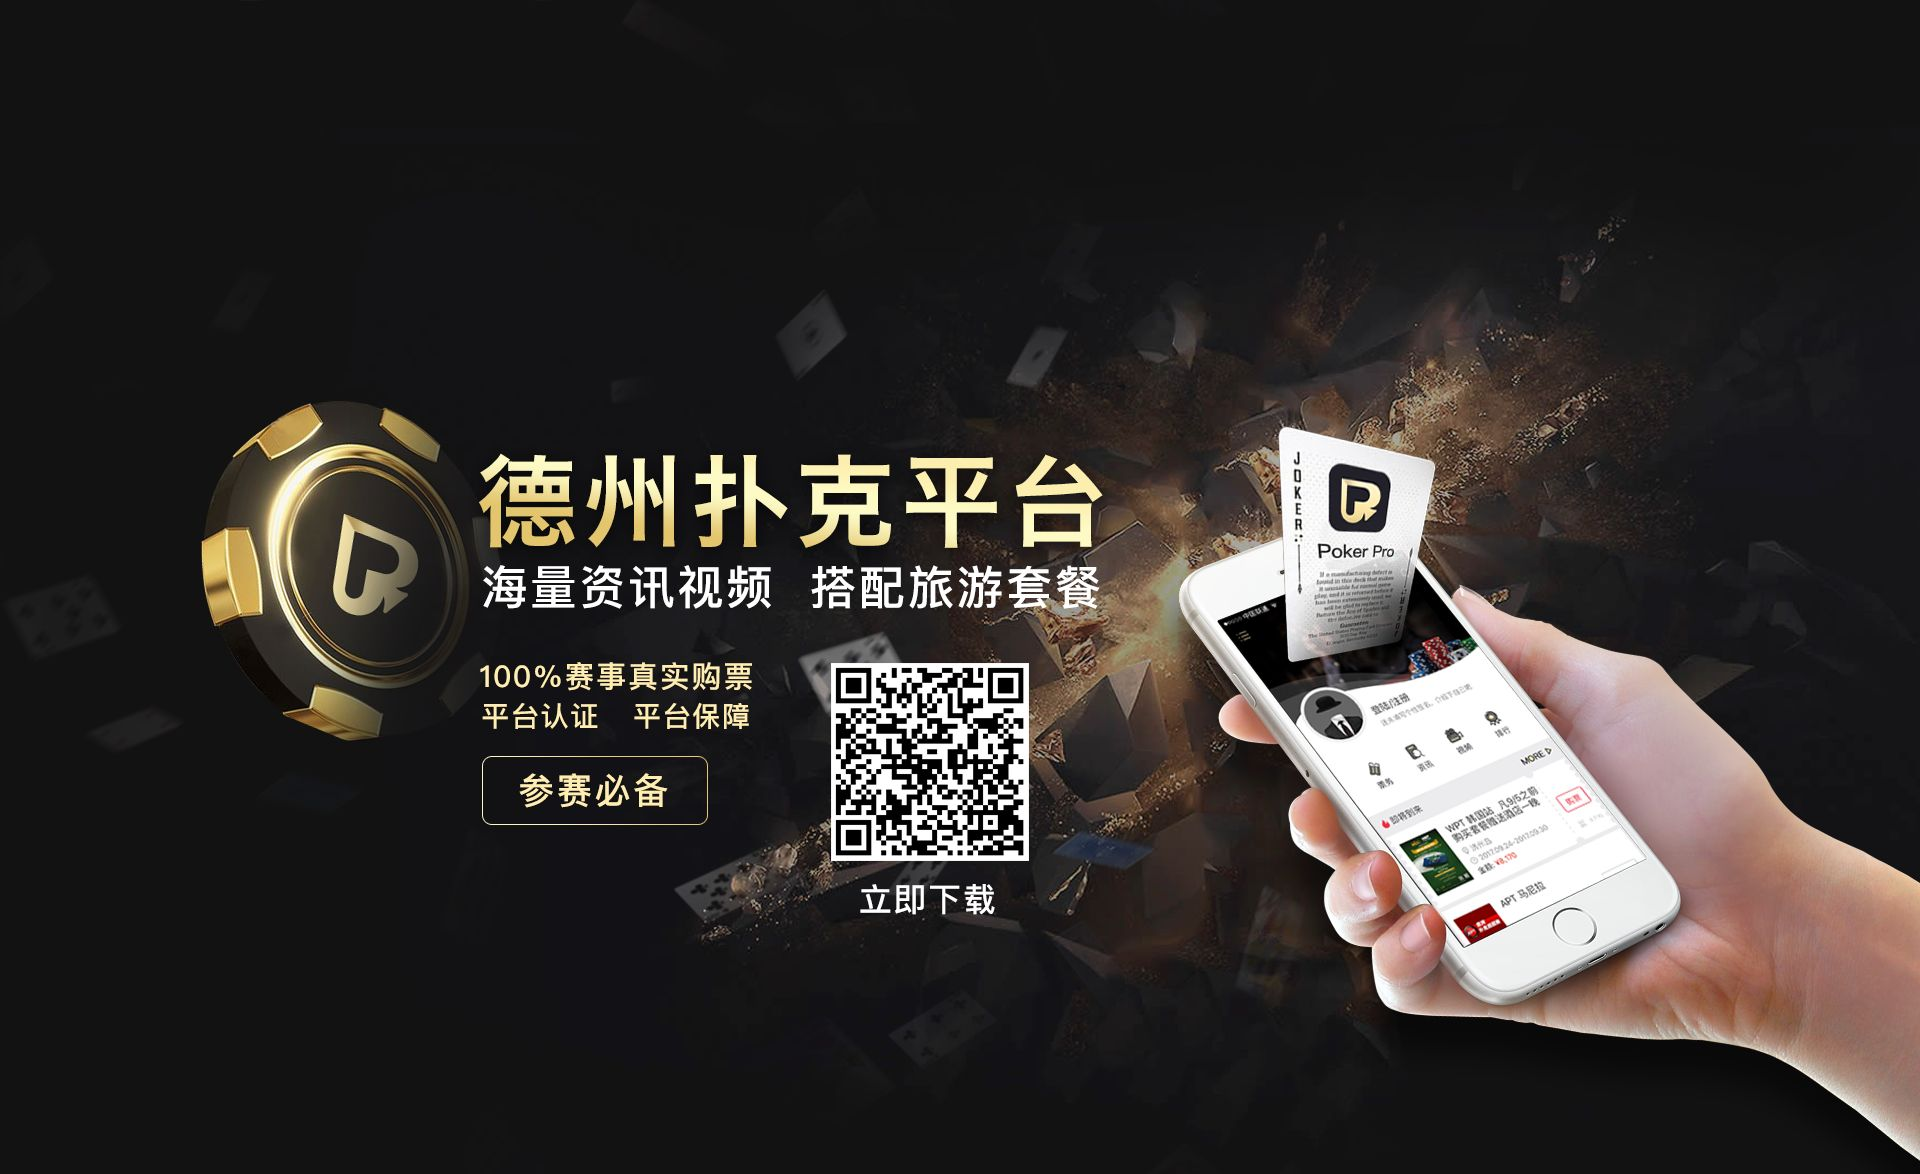
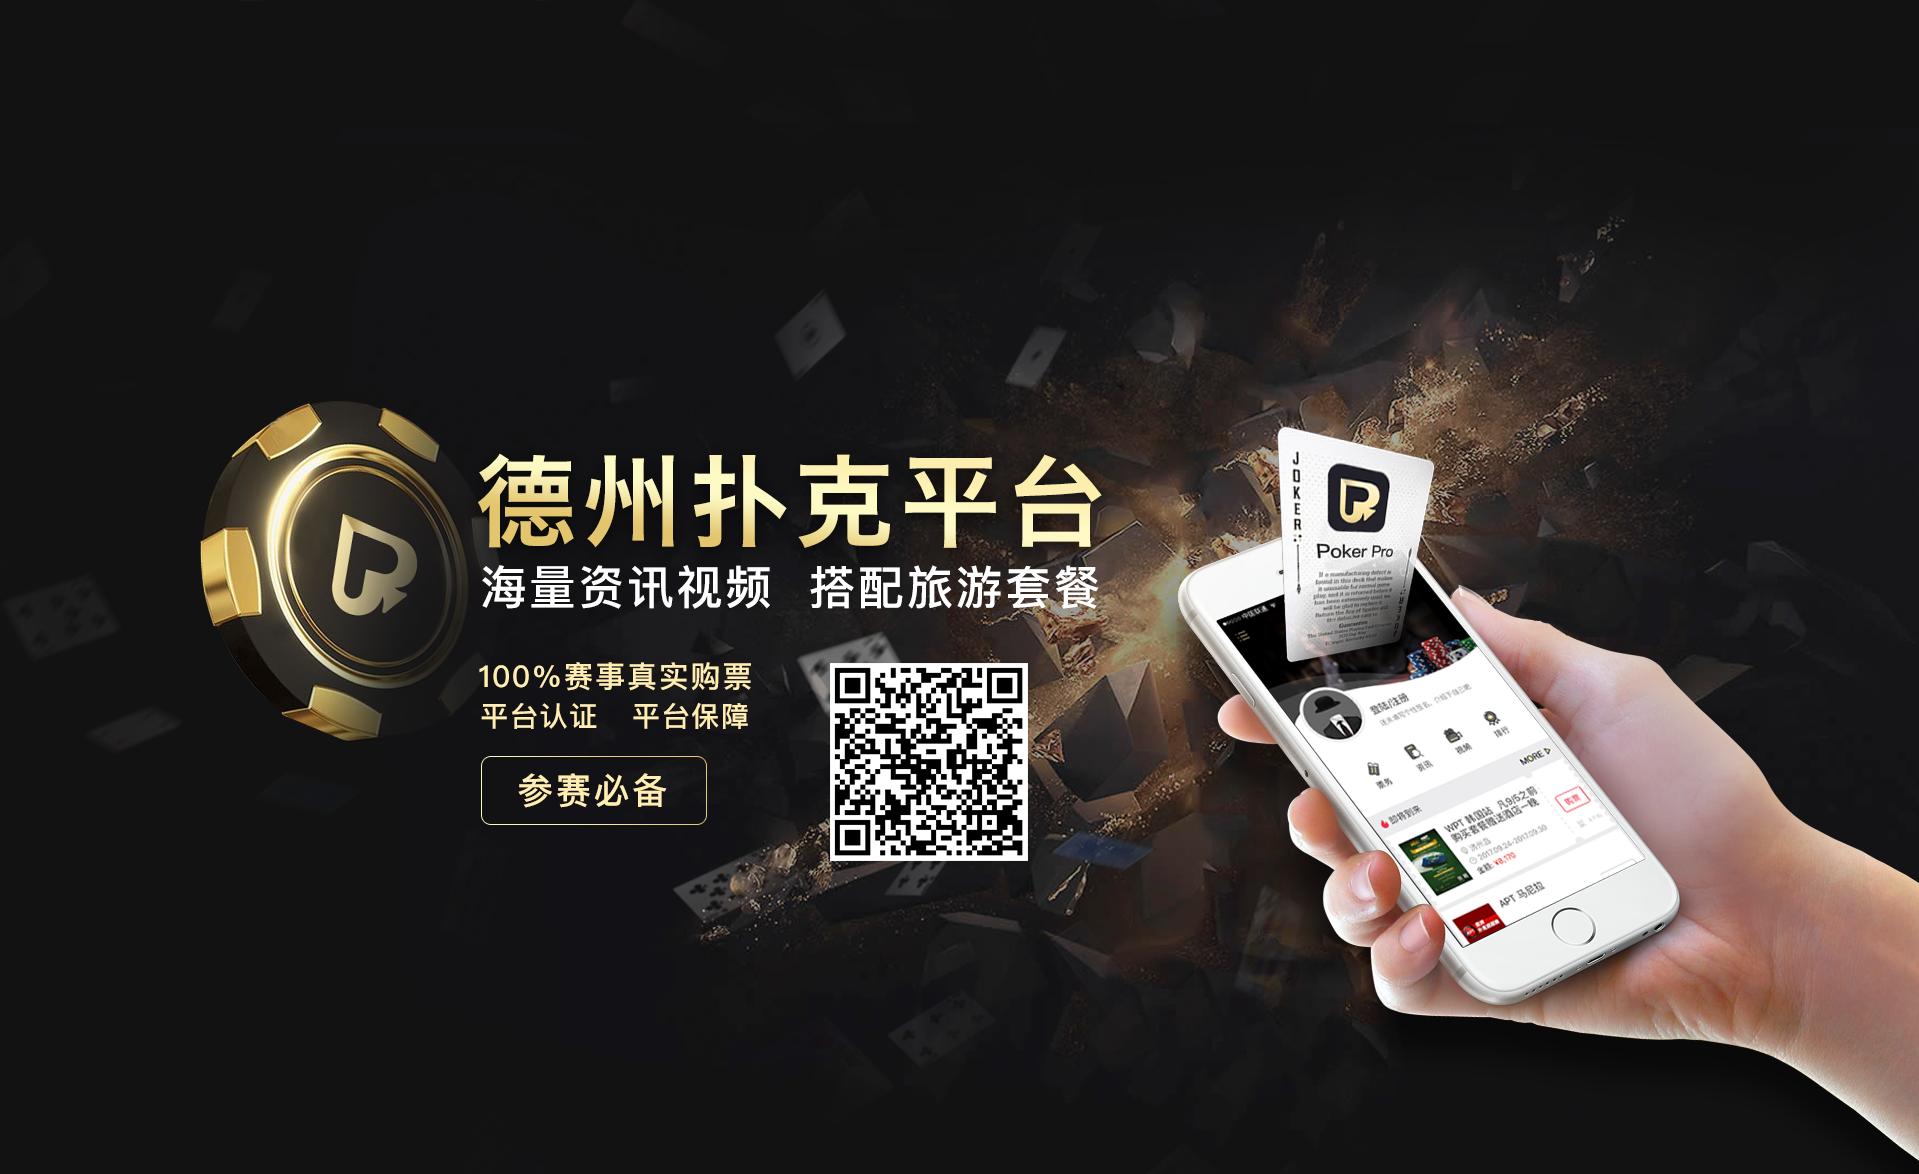
换图片

diff --git a/index.html b/index.html
@@ -27,7 +27,7 @@
 <!-- header section -->
 <section class="banner" role="banner" id="banner">
   <div  class="header-content" style="position:relative">
-    <img src="images/banner.png" alt="" class="img-responsive">
+    <img src="images/topImg2.png" alt="" class="img-responsive">
     <div class="header" style="width:100%;position:absolute;z-index:999;top:15%;">
       <div id="header" style="top:0; height:100px;">
         <div class="content" style="width:80%;margin:0 auto;">
@@ -43,7 +43,15 @@
 
       </div>
     </div>
-    <div class="download"><a >立即下载</a></div>
+    <div class="down">
+      <div class="down-content">
+        <img src="images/erweima.png" alt="" class="img-responsive">
+      </div>
+      <div class="download">
+        <a >立 即 下 载</a>
+      </div>
+    </div>
+
   </div>
 </section>
 <!-- header section --> 

diff --git a/css/main.css b/css/main.css
@@ -61,11 +61,30 @@ ul li {
 .space {
 	margin-top: 60px;
 }
-.download{
+.down{
+	width:100%;
 	position:absolute;
-	top:75%;
-	left:45%;
+	top:56%;
+	/*left:400px;*/
 	z-index:777;
+	text-align: center;
+	display:flex;
+	flex-direction: column;
+	align-content: center;
+}
+.down-content{
+	max-width: 189px;
+	max-height:189px;
+	width:auto;
+	height:auto;
+	margin:0 auto;
+
+}
+.down-content img{
+	width:100%; height:100%;
+}
+.download{
+	margin:0 auto;
 }
 .download a{
 	font-weight: bolder;
